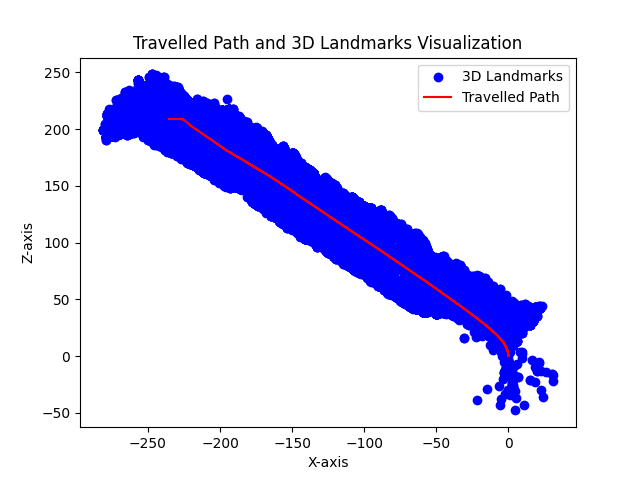
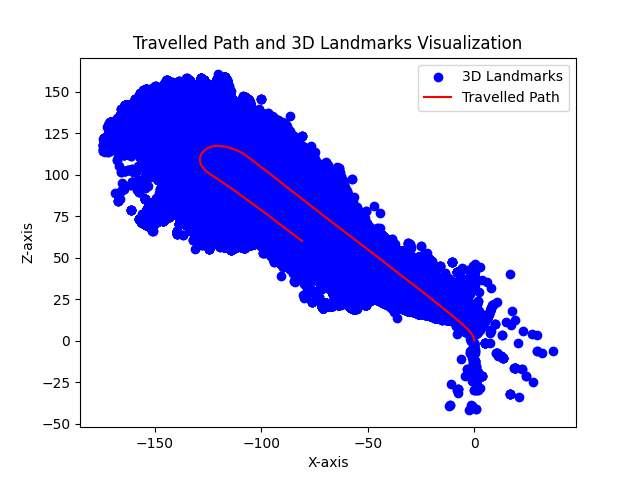
malaga working

diff --git a/src/main.py b/src/main.py
@@ -9,21 +9,22 @@ from visual import Visual
 
 debug = config['debug']
 visualize = config['visualization']
-visualize = False
 
 # Setup
 if config['dataset'] == 'kitti':
     # Set kitti_path to the folder containing "05" and "poses"
     kitti_path = 'kitti-dataset'  # replace with your path
     assert os.path.exists(kitti_path), "KITTI path does not exist"
-    ground_truth = np.loadtxt(f'{kitti_path}/poses/05.txt')[:, -9:-7]
-    kitti_images = [img for img in os.listdir(f'{kitti_path}/05/image_0') if img.endswith('.png')]
+    ground_truth = np.loadtxt(f'{kitti_path}/poses/05.txt')
+    gtx = ground_truth[:, 3]
+    gtz = ground_truth[:, -1]
+    kitti_images = [img for img in os.listdir(f'{kitti_path}/05/image_0') if img.endswith('left.png')]
     last_frame = len(kitti_images) - 1 
     K = np.array([[718.856, 0, 607.1928],
                   [0, 718.856, 185.2157],
                   [0, 0, 1]])
     
-    bootstrap_frames = [0,6] # [0,6]
+    bootstrap_frames = [0,6]
     img0 = cv2.imread(f'{kitti_path}/05/image_0/{bootstrap_frames[0]:06d}.png', cv2.IMREAD_GRAYSCALE)
     img1 = cv2.imread(f'{kitti_path}/05/image_0/{bootstrap_frames[1]:06d}.png', cv2.IMREAD_GRAYSCALE)
 
@@ -31,15 +32,17 @@ elif config['dataset'] == 'malaga':
     # Set malaga_path to the folder containing Malaga dataset
     malaga_path = 'malaga-urban-dataset-extract-07'  # replace with your path
     assert os.path.exists(malaga_path), "Malaga path does not exist"
-    #ground_truth = np.loadtxt(f'{malaga_path}/poses/05.txt')[:, -9:-7]
-    left_images = [img for img in os.listdir(f'{malaga_path}/malaga-urban-dataset-extract-07_rectified_800x600_Images') if img.endswith('.jpg')]
+    ground_truth = np.loadtxt(f'{malaga_path}/malaga-urban-dataset-extract-07_all-sensors_GPS.txt')
+    gtx = ground_truth[:, 8] #[:, 8]
+    gtz = ground_truth[:, 9] #[:, 9]
+    left_images = [img for img in os.listdir(f'{malaga_path}/malaga-urban-dataset-extract-07_rectified_800x600_Images') if img.endswith('left.jpg')]
     left_images.sort()
     last_frame = len(left_images) -1 
     K = np.array([[621.18428, 0, 404.0076],
                   [0, 621.18428, 309.05989],
                   [0, 0, 1]])
     
-    bootstrap_frames = [0, 4]
+    bootstrap_frames = [0, 6]
     img0 = cv2.imread(f'{malaga_path}/malaga-urban-dataset-extract-07_rectified_800x600_Images/{left_images[bootstrap_frames[0]]}', cv2.IMREAD_GRAYSCALE)
     img1 = cv2.imread(f'{malaga_path}/malaga-urban-dataset-extract-07_rectified_800x600_Images/{left_images[bootstrap_frames[1]]}', cv2.IMREAD_GRAYSCALE)
     
@@ -53,9 +56,11 @@ elif config['dataset'] == 'parking':
                 [0, 369.568, 240],
                 [0, 0, 1]])
     
-    ground_truth = np.loadtxt(f'{parking_path}/poses.txt')[:, -9:-7]
+    ground_truth = np.loadtxt(f'{parking_path}/poses.txt')
+    gtx = ground_truth[:, 3]
+    gtz = ground_truth[:, -1]
     
-    bootstrap_frames = [0, 2]
+    bootstrap_frames = [0, 4]
     img0 = cv2.imread(f'{parking_path}/images/img_{bootstrap_frames[0]:05d}.png', cv2.IMREAD_GRAYSCALE)
     img1 = cv2.imread(f'{parking_path}/images/img_{bootstrap_frames[1]:05d}.png', cv2.IMREAD_GRAYSCALE)
 
@@ -146,6 +151,19 @@ if visualize:
     plt.savefig('initialization-plots/%s_initialization_3Dlandmarks__%s-%s_frames_detector_%s.png' % (config['dataset'], bootstrap_frames[0], bootstrap_frames[1], config['init_detector']))
     plt.show() # Show the plot
 
+    # plot the ground truth trajectories of the dataset in green 
+    plt.xlabel('X-axis')
+    plt.ylabel('Z-axis')
+    # plt.title(f'Ground Truth Trajectory {config["dataset"]}')
+    # plot the ground truth path in green
+    plt.plot(gtx, gtz, 'g-', label='Ground Truth')
+    # plot the origin
+    plt.plot(0, 0, 'r.', label='Start Position')
+    plt.savefig(f'ground_truth_trajectory_{config["dataset"]}.png')
+    plt.legend() # Show legend
+    plt.show()
+
+
     # plot all and filtered 2D keypoints (img 1)
     # points = kps_1[filter, :]
     # plt.imshow(img1)
@@ -174,7 +192,7 @@ extended_state['T'] = np.array([])
 sift = cv2.SIFT.create()
 _, old_des = sift.detectAndCompute(img1, None) # this should come from the initialization and we should start from img2
 
-visualization = False
+# visualization = False
 
 # instantiate the animation visualizer
 if config['animation'] == True:
@@ -293,6 +311,8 @@ plt.legend() # Show legend
 plt.savefig('trajectory-plots/%s_trajectory__%s_%s-%s_frames.png' % (config['dataset'], config['find_new_candidates_method'], bootstrap_frames[0], img_idx))
 plt.show()
 
+
+
 # idxs = np.arange(0,2000,250)
 # intervals = []
 # for idx in idxs:
@@ -315,6 +335,8 @@ plt.show()
 #     plt.savefig(f'KITTI DATASET: from frame {interval[0]} to frame {interval[1]}.png')
 #     plt.clf()
 # # plt.show()
+
+
 
 
 #%%

diff --git a/src/visual.py b/src/visual.py
@@ -10,7 +10,7 @@ import matplotlib.pyplot as plt
 
 class Visual():
 
-    def __init__(self, K):
+    def _init_(self, K):
         self._im = None
         self._landmarks = []
         self._landmarks_px = []
@@ -52,14 +52,16 @@ class Visual():
 
 
     def render(self):
-        self._fig = plt.figure(figsize=(24, 12))
+        self._fig = plt.figure(figsize=(12, 6))
+        landmarks= np.array(self._landmarks[0])
+        filter = np.linalg.norm(landmarks, axis = 1) < 200
         ax = self._fig.add_subplot(221)
         plt.title("Landmarks and Keypoints img {}".format(self._iter))
         ax.imshow(self._im)
 
         # Draw keypoints
         landmarks_px = np.array(self._landmarks_px[0])
-        ax.scatter(landmarks_px[:, 0], landmarks_px[:, 1], s=4, c='green', facecolor=None)
+        ax.scatter(landmarks_px[filter, 0], landmarks_px[filter, 1], s=4, c='green', facecolor=None)
         ax.set_xlim([0, self._im.shape[1]])
         ax.set_ylim([self._im.shape[0], 0])
         ax.legend(["Landmarks"], loc='lower right')
@@ -77,13 +79,11 @@ class Visual():
         traj = np.vstack(self._position_history)
         plt.title("Local Trajectory")
         ax.scatter(traj[max([0, traj_len-20]):, 0], traj[max([0, traj_len-20]):, 2], s=20, c='blue', facecolor=None)
-        ax.set_xlim(1.5*np.min(traj[max([0, traj_len-20]):,0]), 1.5 * np.max(traj[max([0, traj_len-20]):,0]))
-        ax.set_ylim(1.5 * np.min(traj[max([0, traj_len-20]):,2]), 1.5 * np.max(traj[max([0, traj_len-20]):,2]))
+        ax.set_xlim(np.min(traj[max([0, traj_len-20]):,0]) -2, np.max(traj[max([0, traj_len-20]):,0]) + 2)
+        ax.set_ylim(np.min(traj[max([0, traj_len-20]):,2]) -2, np.max(traj[max([0, traj_len-20]):,2]) + 2)
         ax.set_aspect("equal")
         ax.set_adjustable("datalim")
         # Draw landmarks in map
-        landmarks= np.array(self._landmarks[0])
-        filter = np.linalg.norm(landmarks, axis = 1) < 30
         ax.scatter(landmarks[filter, 0], landmarks[filter, 2], s=20, c='green', facecolor=None, alpha=0.2)
 
         ax = self._fig.add_subplot(246)
@@ -115,5 +115,7 @@ class Visual():
         im_vis = cv2.cvtColor(im_vis, cv2.COLOR_RGB2BGR)
 
         
-        cv2.imshow("Visualization", im_vis)
-        plt.close( self._fig )
+        #cv2.imshow("Visualization", im_vis)
+        file_name = "images/image_" + str(self._iter)
+        plt.savefig(file_name)
+        plt.close(self._fig)

diff --git a/src/vo_pipeline.py b/src/vo_pipeline.py
@@ -412,7 +412,7 @@ class PoseEstimator():
                 
             elif config['dataset'] == 'malaga':
                 malaga_path = 'malaga-urban-dataset-extract-07'  # replace with your path
-                left_images = [img for img in os.listdir(f'{malaga_path}/malaga-urban-dataset-extract-07_rectified_800x600_Images') if img.endswith('.jpg')]
+                left_images = [img for img in os.listdir(f'{malaga_path}/malaga-urban-dataset-extract-07_rectified_800x600_Images') if img.endswith('left.jpg')]
                 left_images.sort()
                 cur_frame = cv2.imread(f'{malaga_path}/malaga-urban-dataset-extract-07_rectified_800x600_Images/{left_images[img_idx]}', cv2.IMREAD_GRAYSCALE)
                 next_bootstrap_frame = cv2.imread(f'{malaga_path}/malaga-urban-dataset-extract-07_rectified_800x600_Images/{left_images[img_idx+4]}', cv2.IMREAD_GRAYSCALE)
@@ -445,7 +445,6 @@ class PoseEstimator():
             # add the keypoints of the current frame (kps_1) to the associations
             associations['P'] = np.vstack((associations['P'], kps_1))
             return self.estimatePose(associations, img_idx)
-            
             
 
         inliers = np.hstack(inliers)
